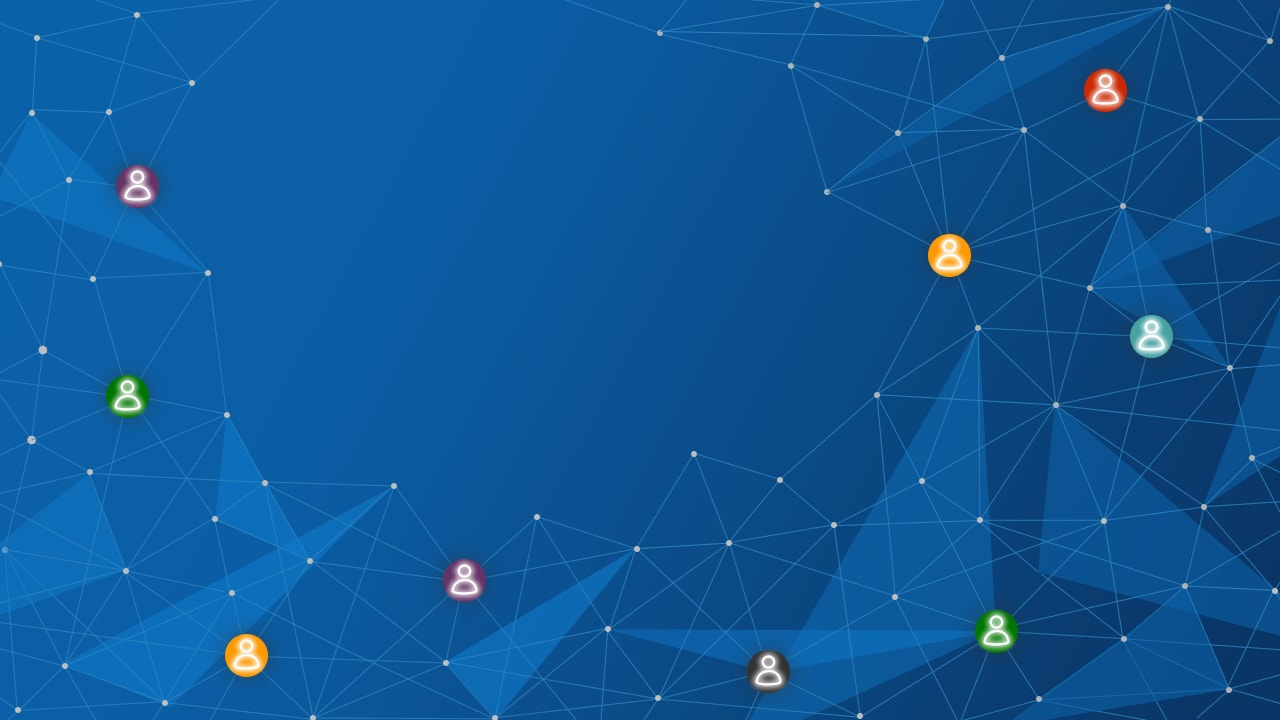
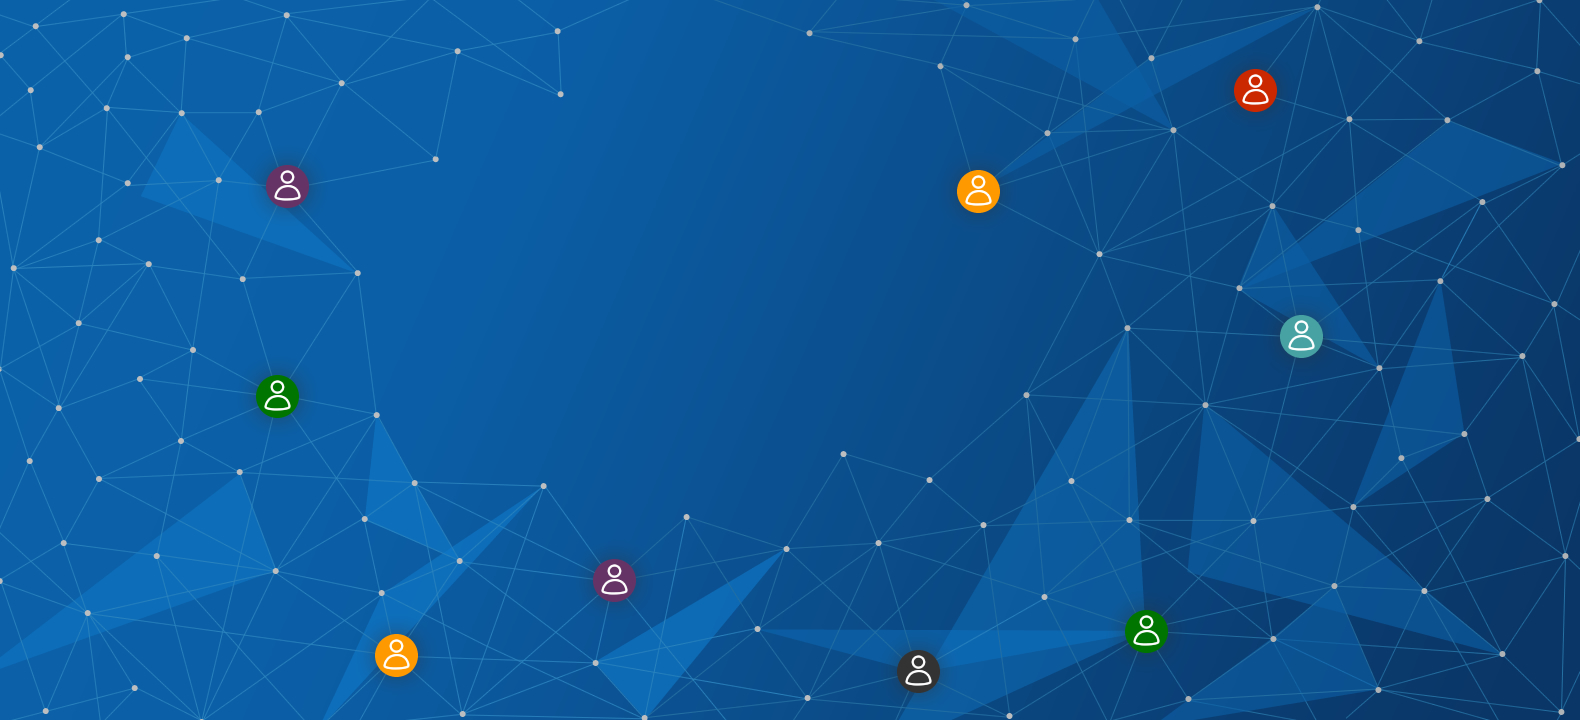
cambios de slider

diff --git a/conferencia2013_2.html b/conferencia2013_2.html
@@ -854,104 +854,83 @@
       </div>
     </div>
     <div class="conferencia-cronograma">
-      <p>Cronograma (22-Agosto / turno: tarde)</p>
+      <p>Cronograma (23-Agosto / turno: mañana)</p>
     </div>
     <div class="doble">
       <div>
         <ul class="list">
-          <li><a class="various fancybox.iframe" href="http://www.youtube.com/embed/iuWFkNECT_s"><img src="http://i2.ytimg.com/vi/iuWFkNECT_s/2.jpg" alt=""></a></li>
+          <li><a class="various fancybox.iframe" href="http://www.youtube.com/embed/hg5WyED5WCU"><img src="http://i2.ytimg.com/vi/hg5WyED5WCU/2.jpg" alt=""></a></li>
         </ul>
         <div>
-          <h3>Los frontispicios de Guamán Poma</h3>
-          <p>Jorge Cañizares-Esguerra</p>
+          <h3>La fundación de la Biblioteca Nacional del Perú</h3>
+          <p>Pedro Guibovich</p>
           <p>Ponencia</p>
-          <p>Jorge Cañizares-Esguerra, historiador de la Universidad de Texas (EE.UU.), expuso sobre "Los frontispicios de Guamán Poma: su concepción trinitaria y vetero-testamentaria de la historia".</p>
+          <p>Pedro Guibovich Pérez, profesor de la Pontificia Universidad Católica del Perú, estuvo a cargo de la ponencia "La fundación de la Biblioteca Nacional del Perú".</p>
         </div>
       </div>
+      </div>
+      <div class="doble">
       <div>
         <ul class="list">
-          <li><a class="various fancybox.iframe" href="http://www.youtube.com/embed/_r_NLVehDYU"><img src="http://i2.ytimg.com/vi/_r_NLVehDYU/2.jpg" alt=""></a></li>
+          <li><a class="various fancybox.iframe" href="http://www.youtube.com/embed/rZhYrz9ZCO4"><img src="http://i2.ytimg.com/vi/rZhYrz9ZCO4/2.jpg" alt=""></a></li>
         </ul>
         <div>
-          <h3>Cultura e iconografía en la pintura virreinal</h3>
-          <p>Ramón Mujica Pinilla</p>
+          <h3>Las primeras novelas en la región andina</h3>
+          <p>Marcel Velázquez</p>
           <p>Ponencia</p>
-          <p>Ramón Mujica Pinilla, director de la BNP y reconocido investigador de nuestro pasado virreinal, expuso el tema "Cultura e iconografía en la pintura virreinal" para el cual presentó, aparte de trascendentales pasajes históricos y sus respectivas interpretaciones, más de 30 imágenes de pinturas y grabados de la època de la colonia de España en el Perú.</p>
+          <p>Marcel Velázquez Castro, magíster por la Universidad Nacional Mayor de San Marcos en Literatura Peruana y Latinoamericana, del tema "Las primeras novelas en la región andina: prensa, autor y editor".</p>
         </div>
       </div>
     </div>
-    <div class="doble">
-      <div>
-        <ul class="list">
-          <li><a class="various fancybox.iframe" href="http://www.youtube.com/embed/_r_NLVehDYU"><img src="http://i2.ytimg.com/vi/_r_NLVehDYU/2.jpg" alt=""></a></li>
-        </ul>
-        <div>
-          <h3>Más venerados que las mismas leyes</h3>
-          <p>Mauricio Novoa</p>
-          <p>Ponencia</p>
-          <p>El abogado e historiador peruano Mauricio Novoa dictó la ponencia "Más venerados que las mismas leyes: Los libros de derecho romano-medieval en la biblioteca del oidor Pedro Bravo del Ribero (1786)".</p>
-        </div>
-      </div>
-      <div>
-        <ul class="list">
-          <li><a class="various fancybox.iframe" href="http://www.youtube.com/embed/y4pfk99fHKQ"><img src="http://i2.ytimg.com/vi/y4pfk99fHKQ/2.jpg" alt=""></a></li>
-        </ul>
-        <div>
-          <h3>Preguntas del público y discusión (bloque 2)</h3>
-          <p>-</p>
-          <p>-</p>
-          <p>-</p>
-        </div>
-      </div>
-    </div>
+    
     <div class="conferencia-cronograma">
-      <p>Cronograma (22-Agosto / turno: tarde)</p>
+      <p>Cronograma (23-Agosto / turno: tarde)</p>
     </div>
     <div class="doble">
       <div>
         <ul class="list">
-          <li><a class="various fancybox.iframe" href="http://www.youtube.com/embed/iuWFkNECT_s"><img src="http://i2.ytimg.com/vi/iuWFkNECT_s/2.jpg" alt=""></a></li>
+          <li><a class="various fancybox.iframe" href="http://www.youtube.com/embed/7d1_XtHDLsM"><img src="http://i2.ytimg.com/vi/7d1_XtHDLsM/2.jpg" alt=""></a></li>
         </ul>
         <div>
-          <h3>Los frontispicios de Guamán Poma</h3>
-          <p>Jorge Cañizares-Esguerra</p>
+          <h3>El incendio de la Biblioteca Nacional del Perú de 1943</h3>
+          <p>Carlos Aguirre</p>
           <p>Ponencia</p>
-          <p>Jorge Cañizares-Esguerra, historiador de la Universidad de Texas (EE.UU.), expuso sobre "Los frontispicios de Guamán Poma: su concepción trinitaria y vetero-testamentaria de la historia".</p>
+          <p>Carlos Aguirre, profesor del Departamento de Historia de la Universidad de Oregon (EE.UU.), expuso sobre el tema "Una tragedia cultural: el incendio de la Biblioteca Nacional del Perú de 1943".</p>
         </div>
       </div>
       <div>
         <ul class="list">
-          <li><a class="various fancybox.iframe" href="http://www.youtube.com/embed/_r_NLVehDYU"><img src="http://i2.ytimg.com/vi/_r_NLVehDYU/2.jpg" alt=""></a></li>
+          <li><a class="various fancybox.iframe" href="http://www.youtube.com/embed/CgpXUBykW6g"><img src="http://i2.ytimg.com/vi/CgpXUBykW6g/2.jpg" alt=""></a></li>
         </ul>
         <div>
-          <h3>Cultura e iconografía en la pintura virreinal</h3>
-          <p>Ramón Mujica Pinilla</p>
+          <h3>Borges en la Biblioteca Nacional</h3>
+          <p>Carlos Aguirre</p>
           <p>Ponencia</p>
-          <p>Ramón Mujica Pinilla, director de la BNP y reconocido investigador de nuestro pasado virreinal, expuso el tema "Cultura e iconografía en la pintura virreinal" para el cual presentó, aparte de trascendentales pasajes históricos y sus respectivas interpretaciones, más de 30 imágenes de pinturas y grabados de la època de la colonia de España en el Perú.</p>
+          <p>Ricardo Salvatore, profesor de historia de la Universidad Torcuato di Tella (Argentina), tuvo a su cargo la ponencia "De bibliotecas imaginadas y bibliotecas reales: Borges en la Biblioteca Nacional".</p>
         </div>
       </div>
     </div>
     <div class="doble">
       <div>
         <ul class="list">
-          <li><a class="various fancybox.iframe" href="http://www.youtube.com/embed/_r_NLVehDYU"><img src="http://i2.ytimg.com/vi/_r_NLVehDYU/2.jpg" alt=""></a></li>
+          <li><a class="various fancybox.iframe" href="http://www.youtube.com/embed/W4MaiwLz30I"><img src="http://i2.ytimg.com/vi/W4MaiwLz30I/2.jpg" alt=""></a></li>
         </ul>
         <div>
-          <h3>Más venerados que las mismas leyes</h3>
-          <p>Mauricio Novoa</p>
-          <p>Ponencia</p>
-          <p>El abogado e historiador peruano Mauricio Novoa dictó la ponencia "Más venerados que las mismas leyes: Los libros de derecho romano-medieval en la biblioteca del oidor Pedro Bravo del Ribero (1786)".</p>
+          <h3>Preguntas del público y discusión (bloque 3)</h3>
+          <p>-</p>
+          <p>-</p>
+          <p>-</p>
         </div>
       </div>
       <div>
         <ul class="list">
-          <li><a class="various fancybox.iframe" href="http://www.youtube.com/embed/y4pfk99fHKQ"><img src="http://i2.ytimg.com/vi/y4pfk99fHKQ/2.jpg" alt=""></a></li>
+          <li><a class="various fancybox.iframe" href="http://www.youtube.com/embed/3jhdygMd94I"><img src="http://i2.ytimg.com/vi/3jhdygMd94I/2.jpg" alt=""></a></li>
         </ul>
         <div>
-          <h3>Preguntas del público y discusión (bloque 2)</h3>
+          <h3>El libro como artefacto cultural</h3>
           <p>-</p>
-          <p>-</p>
-          <p>-</p>
+          <p>Mesa redonda</p>
+          <p>En la mesa redonda participaron Thomas Cummins, Fermín del Pino Díaz, Jorge Cañizares, Carlos Aguirre, Ricardo Salvatore y Natalia Majluf. Cerró el simposio Ramón Mujica Pinilla.</p>
         </div>
       </div>
     </div>

diff --git a/m/resources/css/style.css b/m/resources/css/style.css
@@ -288,7 +288,7 @@ KEYFRAMES ANIMATION FOR SLIDERS
 -----------------------------*/
 
 #slide1-zoom {
-	background-image: url(../img/slider-final-022.jpg);
+	background-image: url(../img/slide1.jpg);
   background-repeat: no-repeat;
   background-position: bottom center;
   position: relative;
@@ -298,7 +298,7 @@ KEYFRAMES ANIMATION FOR SLIDERS
 }
 
 #slide1-2 {
-	background-image: url(../img/slider_BV_222.jpg);
+	background-image: url(../img/slide1-1.jpg);
   background-repeat: no-repeat;
   background-position: bottom center;
   position: relative;
@@ -308,7 +308,7 @@ KEYFRAMES ANIMATION FOR SLIDERS
 }
 
 #slide2-pan {
-	background: url(../img/bvn-version-tablet.jpg);
+	background: url(../img/slide2.jpg);
 	background-repeat: no-repeat;
 	position: relative;
   height: 100%;
@@ -328,7 +328,7 @@ KEYFRAMES ANIMATION FOR SLIDERS
 }
 
 #slide4{
-	background-image: url(../img/slide2.jpg);
+	background-image: url(../img/banner_1.jpg);
 }
 
 #slide4 h1{
